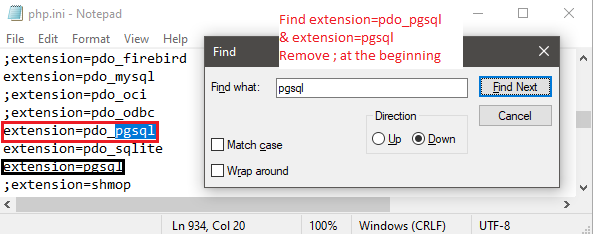
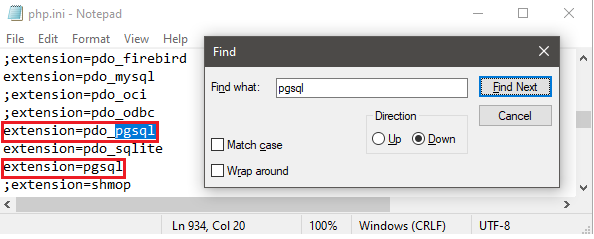
readme

Changed region(s): [[0.4545, 0.0586, 0.7879, 0.2929], [0.0, 0.6444, 0.2121, 0.7615]]

diff --git a/README.md b/README.md
@@ -18,6 +18,9 @@ or copy to C:\xampp\htdocs
 
 ### Enable extension pgsql ###
 ![S1](/assets/img/ss1.png)
+
+Find extension=pdo_pgsql & extension=pgsql
+Remove ; at the beginning
 ![S2](/assets/img/ss2.png)
 
 
